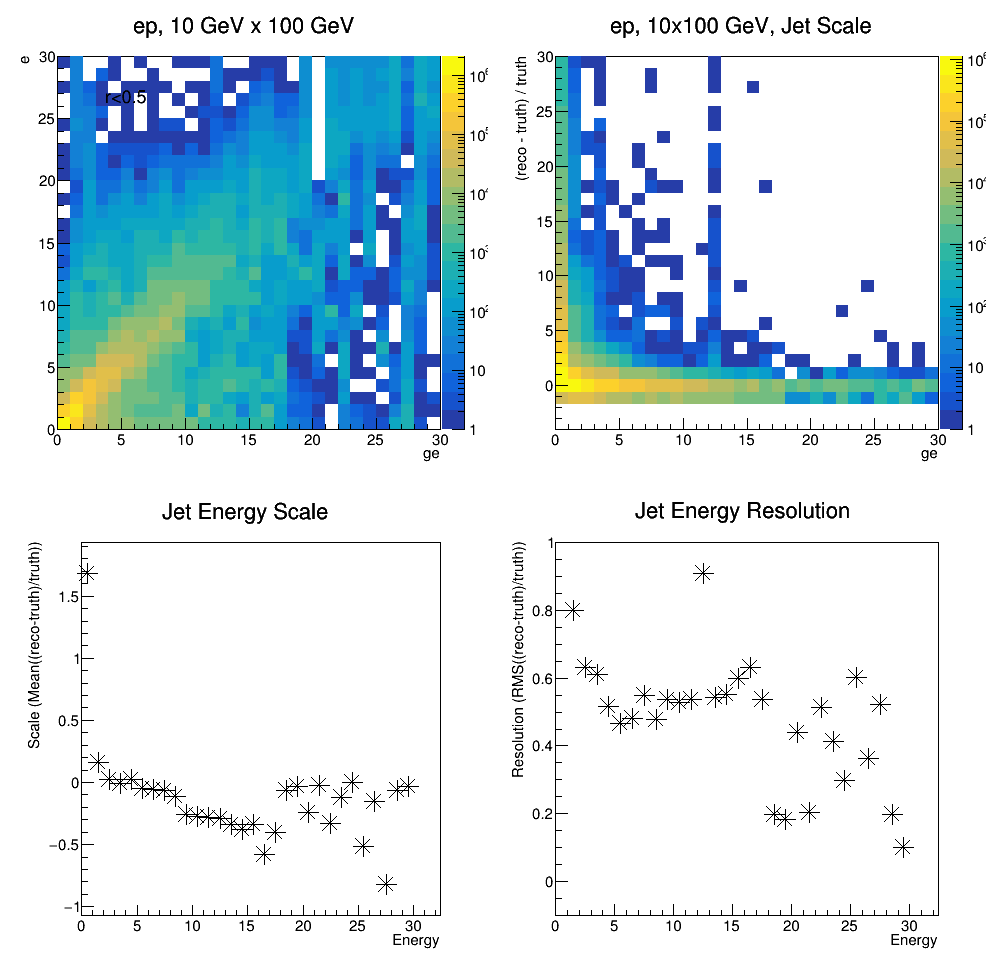
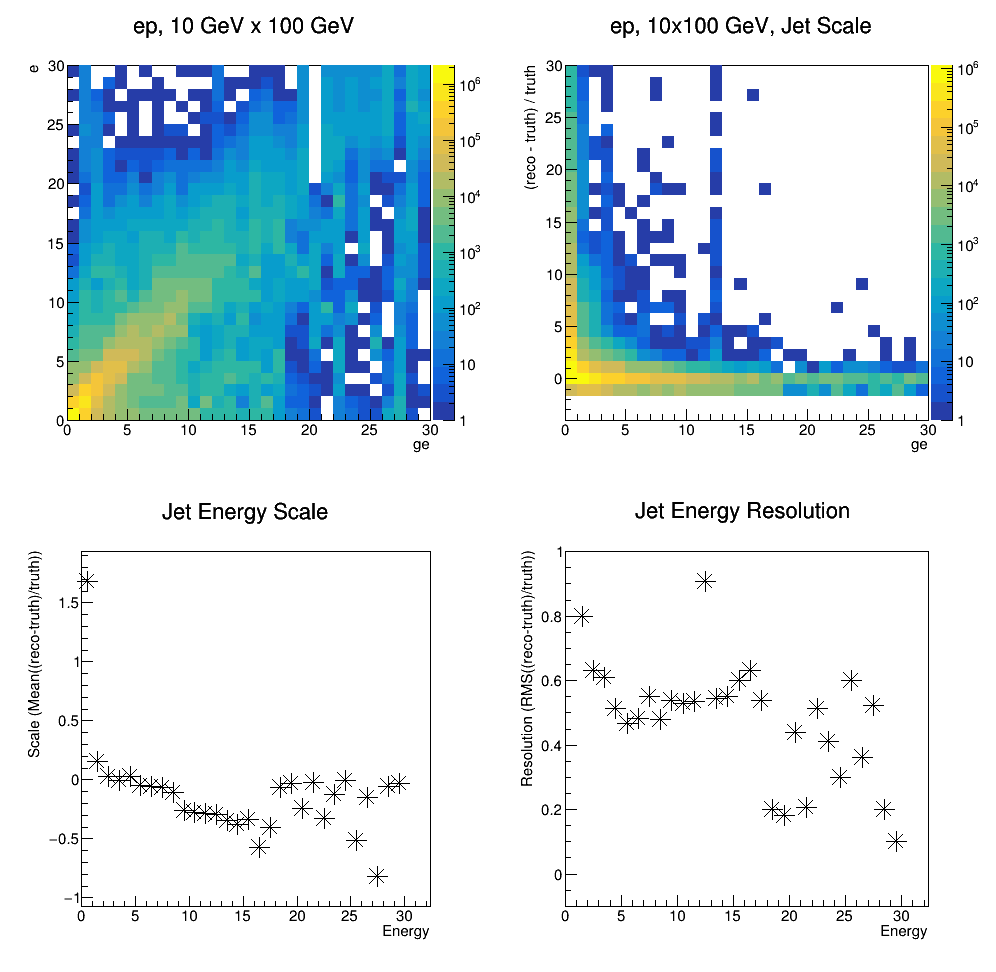
fix plot margins

diff --git a/macro/plotJetEnergyScale.cpp b/macro/plotJetEnergyScale.cpp
@@ -136,15 +136,14 @@ void plotJetEnergyScale(std::string centralJets = "", std::string forwardJets = 
 
 
     // Plotting
+    gStyle->SetPadRightMargin(0.12);
+    gStyle->SetPadLeftMargin(0.12);
+    gStyle->SetPadTopMargin(0.12);
+    gStyle->SetPadBottomMargin(0.12);
     TCanvas *jetEnergy = new TCanvas("jet_energy", "", 1000, 1000);
     jetEnergy->Divide(2, 2);
     jetEnergy->cd(1);
-    TLatex *cutList = new TLatex(0.2, 0.8, Form("r<%.1f", r));
-    cutList->SetNDC();
-    cutList->SetTextFont(43);
-    cutList->SetTextSize(20);
     truthEnergyHist->Draw("colz");
-    cutList->Draw();
     truthEnergyHist->SetXTitle("ge");
     truthEnergyHist->SetYTitle("e");
     truthEnergyHist->SetTitle("ep, 10 GeV x 100 GeV");
@@ -207,7 +206,6 @@ void plotJetEnergyScale(std::string centralJets = "", std::string forwardJets = 
 
     // Some cleanup
     delete jetEnergy;
-    delete cutList;
     delete jetScale;
     delete truthEnergyHist;
     delete truthGeHist;
